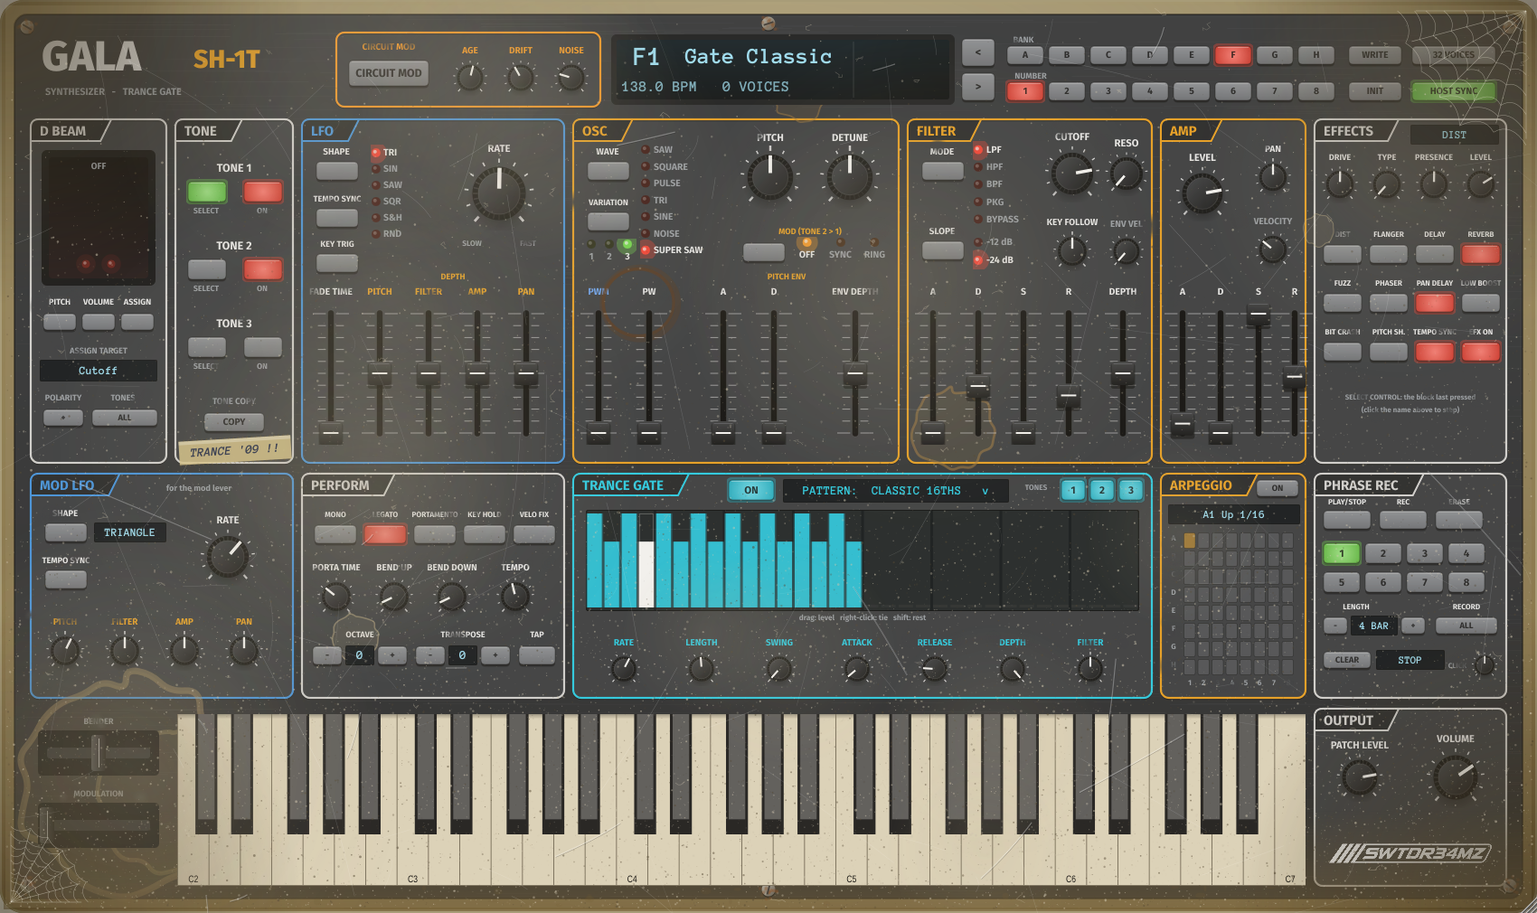
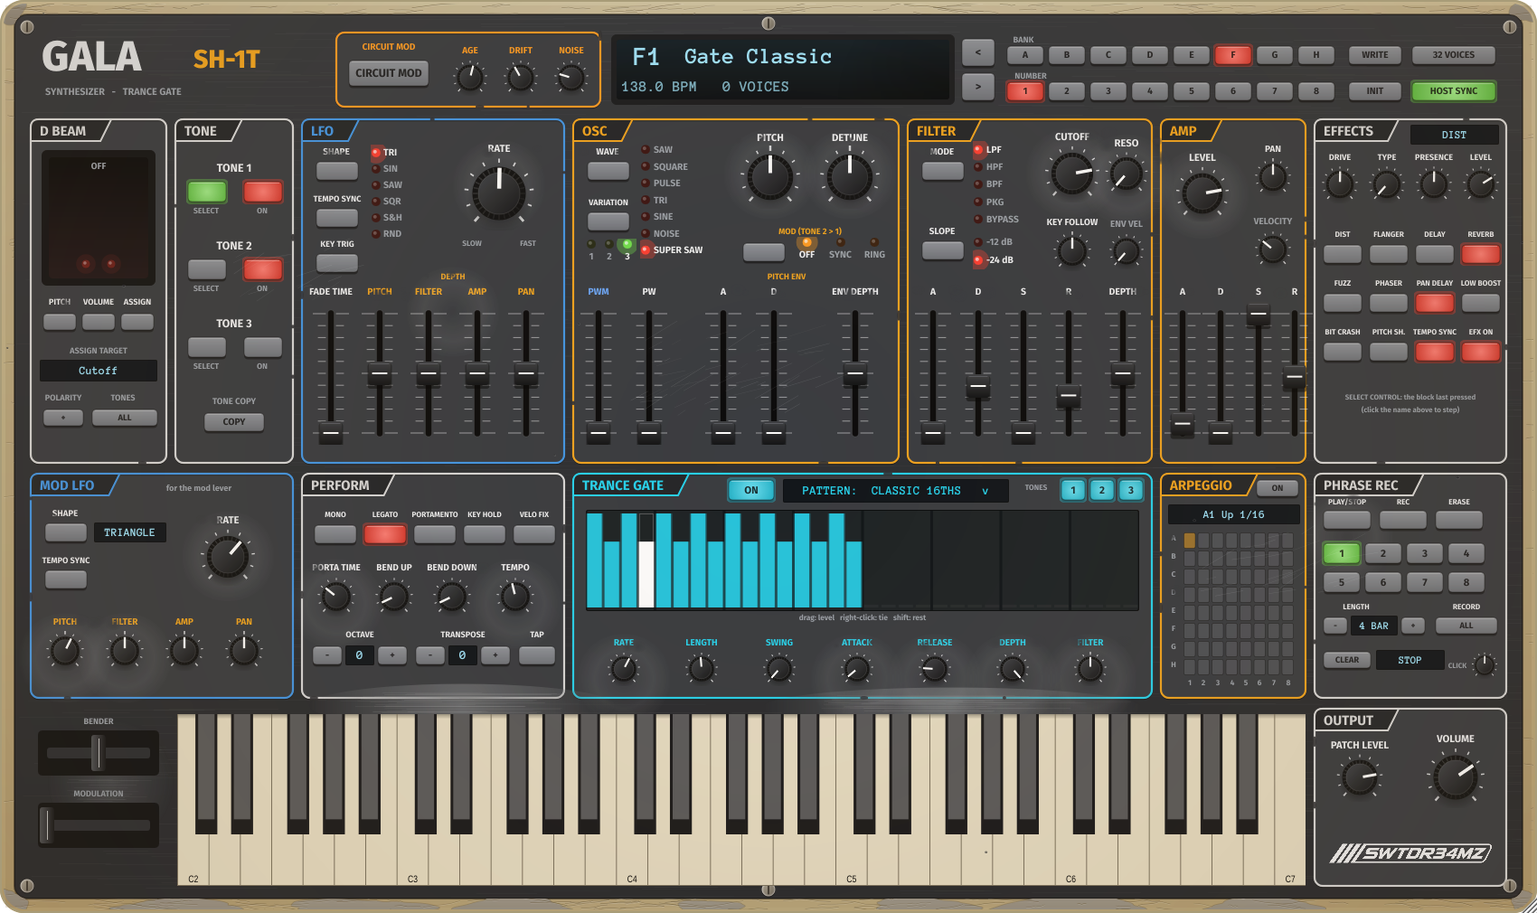
The panel as a relic job: checked lacquer, worn edges, chipped frames, polished by hands
No more cobwebs, tape, coffee ring or dust specks: the body's lacquer toned and checked, worn through to the primer
along the front edge and the corners, the panel's paint polished thin where palms rest, the frames' paint chipped,
a sheen round the knobs played most, the print rubbed there, the screws' nickel dulled, a few fine scratch clusters.

Claude-Session: https://claude.ai/code/session_019gwqiMsWfNz1vtXuzBpj2U

diff --git a/src/ui/Look.cpp b/src/ui/Look.cpp
@@ -67,9 +67,9 @@ void drawBody(juce::Graphics &g, juce::Rectangle<float> r)
     using namespace juce;
     /* the white body: a soft sheen, rounded */
     /* (once white: years of light and cellar air have made it ivory, darker at the edges) */
-    g.setGradientFill(ColourGradient(Colour(0xffd9cba0), r.getX(), r.getY(), Colour(0xffa89366), r.getX(), r.getBottom(), false));
+    g.setGradientFill(ColourGradient(Colour(0xffe8dcb8), r.getX(), r.getY(), Colour(0xffcdb98c), r.getX(), r.getBottom(), false));
     g.fillRoundedRectangle(r, 26.0f);
-    g.setGradientFill(ColourGradient(Colours::transparentBlack, r.getCentreX(), r.getCentreY(), Colour(0x80604a1c), r.getX(), r.getY(), true));
+    g.setGradientFill(ColourGradient(Colours::transparentBlack, r.getCentreX(), r.getCentreY(), Colour(0x50704e1c), r.getX(), r.getY(), true));
     g.fillRoundedRectangle(r, 26.0f);
     g.setColour(Colour(0xffa89c78));
     g.drawRoundedRectangle(r.reduced(1.0f), 26.0f, 2.0f);
@@ -78,7 +78,7 @@ void drawBody(juce::Graphics &g, juce::Rectangle<float> r)
     g.setGradientFill(ColourGradient(Colour(0xff303338), p.getX(), p.getY(), Colour(0xff222428), p.getX(), p.getBottom(), false));
     g.fillRoundedRectangle(p, 14.0f);
     Random rnd(7);
-    for (int i = 0; i < 900; i++) {
+    for (int i = 0; i < 1400; i++) {
         float y = p.getY() + rnd.nextFloat() * p.getHeight();
         float x = p.getX() + rnd.nextFloat() * p.getWidth();
         g.setColour(Colours::white.withAlpha(0.012f + 0.02f * rnd.nextFloat()));
@@ -244,28 +244,54 @@ void drawTag(juce::Graphics &g, juce::Rectangle<float> r)
     g.drawImage(tag, fit, juce::RectanglePlacement::stretchToFit, true);
 }
 
-/* ------------------------------------------------------------------------------- the cellar --- */
-static void stain(juce::Graphics &g, juce::Point<float> c, float rad, juce::Colour edge, juce::Random &rnd)
+/* ------------------------------------------------------------------------------- the relic --- */
+/* Aged as a custom shop relics a guitar: by hand, where the years would really have gone. The white lacquer toned to
+ * ivory and checked in fine cracks; worn through to the grey primer where the forearms and palms rest; the panel's
+ * paint polished thin to bare aluminium in front of the keys; the print rubbed where the fingers go; the screws dulled.
+ * No dirt for its own sake. */
+static void checking(juce::Graphics &g, juce::Rectangle<float> area, int n, juce::Random &rnd, juce::Colour c)
 {
     using namespace juce;
-    /* a dried drop: faint inside, a darker rim, not quite round */
+    /* lacquer checks: fine, mostly across, each a little wavy, in clusters */
+    for (int i = 0; i < n; i++) {
+        float x = area.getX() + rnd.nextFloat() * area.getWidth(), y = area.getY() + rnd.nextFloat() * area.getHeight();
+        float len = 10.0f + rnd.nextFloat() * 46.0f, tilt = (rnd.nextFloat() - 0.5f) * 0.35f;
+        Path p;
+        p.startNewSubPath(x, y);
+        int segs = 4;
+        for (int k = 1; k <= segs; k++)
+            p.lineTo(x + len * (float)k / (float)segs, y + tilt * len * (float)k / (float)segs + (rnd.nextFloat() - 0.5f) * 1.6f);
+        g.setColour(c.withMultipliedAlpha(0.5f + 0.5f * rnd.nextFloat()));
+        g.strokePath(p, PathStrokeType(0.55f));
+        g.setColour(Colours::white.withAlpha(0.25f));
+        g.strokePath(p, PathStrokeType(0.5f), AffineTransform::translation(0.0f, 0.7f));
+    }
+}
+
+static void wearPatch(juce::Graphics &g, juce::Point<float> c, float rx, float ry, juce::Colour bare, juce::Random &rnd)
+{
+    using namespace juce;
+    /* the finish worn through: an irregular soft-edged patch, a thin darker rim where the lacquer ends */
     Path p;
-    const int n = 28;
+    const int n = 36;
+    float ph = rnd.nextFloat() * 6.0f;
     for (int i = 0; i <= n; i++) {
         float a = MathConstants<float>::twoPi * (float)i / (float)n;
-        float rr = rad * (0.85f + 0.25f * rnd.nextFloat());
-        auto q = c.getPointOnCircumference(rr, a);
+        float w = 0.78f + 0.14f * std::sin(a * 3.0f + ph) + 0.1f * rnd.nextFloat();
+        Point<float> q(c.x + std::sin(a) * rx * w, c.y - std::cos(a) * ry * w);
         if (i == 0)
             p.startNewSubPath(q);
         else
             p.lineTo(q);
     }
     p.closeSubPath();
-    p = p.createPathWithRoundedCorners(rad * 0.3f);
-    g.setColour(edge.withMultipliedAlpha(0.25f));
+    p = p.createPathWithRoundedCorners(6.0f);
+    g.setColour(Colours::black.withAlpha(0.18f));
+    g.strokePath(p, PathStrokeType(1.6f));
+    g.setColour(bare);
     g.fillPath(p);
-    g.setColour(edge);
-    g.strokePath(p, PathStrokeType(jmax(1.0f, rad * 0.06f)));
+    g.setGradientFill(ColourGradient(Colours::white.withAlpha(0.10f), c.x, c.y - ry * 0.4f, Colours::transparentWhite, c.x, c.y + ry, false));
+    g.fillPath(p);
 }
 
 void drawScrew(juce::Graphics &g, juce::Point<float> c, float rr, int seed)
@@ -273,56 +299,96 @@ void drawScrew(juce::Graphics &g, juce::Point<float> c, float rr, int seed)
     using namespace juce;
     Random rnd(seed);
     auto r = Rectangle<float>(rr * 2.0f, rr * 2.0f).withCentre(c);
-    g.setColour(Colour(0x60000000));
-    g.fillEllipse(r.translated(0.0f, 1.5f));
-    g.setGradientFill(ColourGradient(Colour(0xffb9b4a8), r.getX(), r.getY(), Colour(0xff5d554a), r.getRight(), r.getBottom(), false));
+    g.setColour(Colour(0x50000000));
+    g.fillEllipse(r.translated(0.0f, 1.2f));
+    /* nickel gone dull: grey, a little warm, the head's edge still bright */
+    g.setGradientFill(ColourGradient(Colour(0xffc2bdb2), r.getX(), r.getY(), Colour(0xff6e685e), r.getRight(), r.getBottom(), false));
     g.fillEllipse(r);
-    /* rust bleeding out from it */
-    for (int i = 0; i < 14; i++) {
-        float a = rnd.nextFloat() * MathConstants<float>::twoPi, d = rr * (0.2f + 1.3f * rnd.nextFloat());
-        g.setColour(Colour(0xff8a4a1c).withAlpha(0.15f + 0.35f * rnd.nextFloat()));
-        g.fillEllipse(Rectangle<float>(rr * 0.5f, rr * 0.5f).withCentre(c.getPointOnCircumference(d, a)));
-    }
-    g.setColour(Colour(0xff3a3430));
+    g.setColour(Colour(0x30584a30));
+    g.fillEllipse(r.reduced(rr * 0.25f));
+    g.setColour(Colours::white.withAlpha(0.35f));
+    g.drawEllipse(r.reduced(0.6f), 0.8f);
     float a = rnd.nextFloat() * MathConstants<float>::pi;
-    g.drawLine(Line<float>(c.getPointOnCircumference(rr * 0.75f, a), c.getPointOnCircumference(rr * 0.75f, a + MathConstants<float>::pi)), rr * 0.25f);
+    g.setColour(Colour(0xff35302a));
+    g.drawLine(Line<float>(c.getPointOnCircumference(rr * 0.72f, a), c.getPointOnCircumference(rr * 0.72f, a + MathConstants<float>::pi)), rr * 0.24f);
 }
 
-void drawAgingUnder(juce::Graphics &g, juce::Rectangle<float> r, const std::vector<juce::Rectangle<float>> &worn)
+void drawAgingUnder(juce::Graphics &g, juce::Rectangle<float> r, const std::vector<juce::Rectangle<float>> &worn,
+                    const std::vector<juce::Rectangle<float>> &frames)
 {
     using namespace juce;
     Random rnd(1971);
-    /* the legends rubbed off where hands went for years: patches of the panel's own grey over the print */
-    for (auto &w : worn) {
-        for (int i = 0; i < 3; i++) {
-            auto c = Point<float>(w.getX() + rnd.nextFloat() * w.getWidth(), w.getY() + rnd.nextFloat() * w.getHeight());
-            float rad = 4.0f + rnd.nextFloat() * 9.0f;
-            g.setGradientFill(ColourGradient(col::section.withAlpha(0.92f), c.x, c.y, col::section.withAlpha(0.0f), c.x + rad, c.y, true));
-            g.fillEllipse(Rectangle<float>(rad * 2.0f, rad * 2.0f).withCentre(c));
+    const Colour primer(0xff8c8476);
+    /* the body: worn through along the front edge where the forearms rest, and at the corners that met cases and
+     * stands; checking over the lacquer */
+    {
+        Graphics::ScopedSaveState st(g);
+        Path body, panel;
+        body.addRoundedRectangle(r, 24.0f);
+        panel.addRoundedRectangle(r.reduced(12.0f), 14.0f);
+        body.setUsingNonZeroWinding(false);
+        body.addPath(panel);
+        g.reduceClipRegion(body);
+        for (int i = 0; i < 7; i++)
+            wearPatch(g, {r.getX() + r.getWidth() * (0.08f + 0.12f * (float)i + 0.04f * rnd.nextFloat()), r.getBottom() - 2.0f},
+                      34.0f + rnd.nextFloat() * 70.0f, 10.0f + rnd.nextFloat() * 6.0f, primer, rnd);
+        for (auto c : {r.getTopLeft(), r.getTopRight(), r.getBottomLeft(), r.getBottomRight()})
+            wearPatch(g, c.translated(c.x < r.getCentreX() ? 6.0f : -6.0f, c.y < r.getCentreY() ? 6.0f : -6.0f), 22.0f, 18.0f, primer, rnd);
+        checking(g, r.withHeight(16.0f), 110, rnd, Colour(0xb05a4a2a));
+        checking(g, r.withTop(r.getBottom() - 16.0f), 120, rnd, Colour(0xb05a4a2a));
+        checking(g, r.withWidth(16.0f), 30, rnd, Colour(0xb05a4a2a));
+        checking(g, r.withLeft(r.getRight() - 16.0f), 30, rnd, Colour(0xb05a4a2a));
+    }
+    /* the panel: its paint polished thin in front of the keys, where palms rest, and round the most-used controls */
+    auto bare = [&](Point<float> c, float rx, float ry, float a) {
+        g.setGradientFill(ColourGradient(Colour(0xff6f7276).withAlpha(a), c.x, c.y, Colour(0xff6f7276).withAlpha(0.0f), c.x + rx, c.y, true));
+        g.fillEllipse(Rectangle<float>(rx * 2.0f, ry * 2.0f).withCentre(c));
+        /* brushed: fine lines across */
+        for (int k = 0; k < 40; k++) {
+            float y = c.y - ry * 0.6f + rnd.nextFloat() * ry * 1.2f, x0 = c.x - rx * 0.7f + rnd.nextFloat() * rx * 0.4f;
+            g.setColour(Colours::white.withAlpha(0.03f + 0.04f * rnd.nextFloat() * a));
+            g.drawHorizontalLine((int)y, x0, x0 + rx * (0.4f + 0.8f * rnd.nextFloat()));
+        }
+    };
+    bare({r.getX() + r.getWidth() * 0.30f, r.getY() + r.getHeight() * 0.775f}, 170.0f, 24.0f, 0.8f);
+    bare({r.getX() + r.getWidth() * 0.62f, r.getY() + r.getHeight() * 0.777f}, 210.0f, 22.0f, 0.75f);
+    bare({r.getX() + r.getWidth() * 0.07f, r.getY() + r.getHeight() * 0.86f}, 70.0f, 70.0f, 0.35f);
+    /* the frames' paint chipped here and there, the dark showing through */
+    for (auto &f : frames) {
+        int n = 2 + rnd.nextInt(4);
+        for (int i = 0; i < n; i++) {
+            float t = rnd.nextFloat();
+            Point<float> c;
+            int side = rnd.nextInt(4);
+            c = side == 0 ? Point<float>(f.getX() + t * f.getWidth(), f.getY())
+              : side == 1 ? Point<float>(f.getX() + t * f.getWidth(), f.getBottom())
+              : side == 2 ? Point<float>(f.getX(), f.getY() + t * f.getHeight())
+                          : Point<float>(f.getRight(), f.getY() + t * f.getHeight());
+            if (side < 2 && c.x < f.getX() + 140.0f && side == 0)
+                continue;                                   /* (not through the title) */
+            float w = 3.0f + rnd.nextFloat() * 9.0f;
+            g.setColour(Colour(0xff2b2d31).withAlpha(0.9f));
+            g.fillEllipse(Rectangle<float>(side < 2 ? w : 4.0f, side < 2 ? 4.0f : w).withCentre(c));
         }
     }
-    /* water marks and a coffee ring on the panel, a tide line on the body */
-    stain(g, {r.getX() + r.getWidth() * 0.62f, r.getY() + r.getHeight() * 0.47f}, 46.0f, Colour(0x90a0783c), rnd);
-    stain(g, {r.getX() + r.getWidth() * 0.08f, r.getY() + r.getHeight() * 0.86f}, 120.0f, Colour(0x70b49a64), rnd);
-    stain(g, {r.getX() + r.getWidth() * 0.11f, r.getY() + r.getHeight() * 0.88f}, 80.0f, Colour(0x60b49a64), rnd);
-    stain(g, {r.getX() + r.getWidth() * 0.52f, r.getY() + r.getHeight() * 0.10f}, 30.0f, Colour(0x80a0783c), rnd);
-    stain(g, {r.getX() + r.getWidth() * 0.23f, r.getY() + r.getHeight() * 0.70f}, 26.0f, Colour(0x80c8b48a), rnd);
-    stain(g, {r.getX() + r.getWidth() * 0.86f, r.getY() + r.getHeight() * 0.25f}, 18.0f, Colour(0x70c8b48a), rnd);
-    {
-        /* the coffee ring: a mug stood here once */
-        auto c = Point<float>(r.getX() + r.getWidth() * 0.415f, r.getY() + r.getHeight() * 0.33f);
-        g.setColour(Colour(0x9a5a3214));
-        g.drawEllipse(Rectangle<float>(78.0f, 74.0f).withCentre(c), 3.5f);
-        g.setColour(Colour(0x505a3214));
-        g.drawEllipse(Rectangle<float>(84.0f, 80.0f).withCentre(c.translated(2.0f, 1.0f)), 6.0f);
+    /* polished by hands round the knobs played most: a faint sheen on the paint */
+    for (auto &w : worn) {
+        if (w.getWidth() < 70.0f)
+            continue;                                       /* (knobs only: a fader's legend is narrow) */
+        auto c = Point<float>(w.getCentreX(), w.getBottom() + 32.0f);
+        ColourGradient cg(Colours::white.withAlpha(0.0f), c.x, c.y, Colours::white.withAlpha(0.0f), c.x + 54.0f, c.y, true);
+        cg.addColour(0.6, Colours::white.withAlpha(0.07f));
+        g.setGradientFill(cg);
+        g.fillEllipse(Rectangle<float>(108.0f, 100.0f).withCentre(c));
     }
-    /* the bottom of the body: where the cellar floor's damp crept up */
-    g.setGradientFill(ColourGradient(Colour(0x00705a30), r.getX(), r.getBottom() - 110.0f, Colour(0x90705a30), r.getX(), r.getBottom(), false));
-    g.fillRect(r.withTop(r.getBottom() - 110.0f));
-    for (int i = 0; i < 40; i++) {
-        float x = r.getX() + rnd.nextFloat() * r.getWidth();
-        g.setColour(Colour(0xff6a5228).withAlpha(0.08f + 0.12f * rnd.nextFloat()));
-        g.fillEllipse(x, r.getBottom() - 6.0f - rnd.nextFloat() * 40.0f, 3.0f + rnd.nextFloat() * 9.0f, 2.0f + rnd.nextFloat() * 6.0f);
+    /* the print rubbed where fingers went */
+    for (auto &w : worn) {
+        for (int i = 0; i < 2; i++) {
+            auto c = Point<float>(w.getX() + rnd.nextFloat() * w.getWidth(), w.getY() + w.getHeight() * (0.3f + 0.5f * rnd.nextFloat()));
+            float rad = 3.0f + rnd.nextFloat() * 7.0f;
+            g.setGradientFill(ColourGradient(col::section.withAlpha(0.85f), c.x, c.y, col::section.withAlpha(0.0f), c.x + rad, c.y, true));
+            g.fillEllipse(Rectangle<float>(rad * 2.0f, rad * 1.4f).withCentre(c));
+        }
     }
 }
 
@@ -330,96 +396,32 @@ void drawAgingOver(juce::Graphics &g, juce::Rectangle<float> r)
 {
     using namespace juce;
     Random rnd(1983);
-    /* grime in the corners and along the edges */
-    for (auto c : {r.getTopLeft(), r.getTopRight(), r.getBottomLeft(), r.getBottomRight()}) {
-        g.setGradientFill(ColourGradient(Colour(0xa0362a14), c.x, c.y, Colour(0x00362a14), c.x + (c.x < r.getCentreX() ? 330.0f : -330.0f), c.y, true));
-        g.fillEllipse(Rectangle<float>(660.0f, 660.0f).withCentre(c));
-    }
-    /* dust: thousands of specks, a few fluffs, thicker in the lower half (it settled) */
-    for (int i = 0; i < 22000; i++) {
-        float x = r.getX() + rnd.nextFloat() * r.getWidth();
-        float y = r.getY() + std::sqrt(rnd.nextFloat()) * r.getHeight();
-        float s = 0.6f + rnd.nextFloat() * rnd.nextFloat() * 2.4f;
-        bool light = rnd.nextFloat() < 0.65f;
-        g.setColour((light ? Colour(0xffd8cfb8) : Colour(0xff4a3e2a)).withAlpha(0.16f + 0.4f * rnd.nextFloat()));
-        g.fillEllipse(x, y, s, s);
-    }
-    for (int i = 0; i < 80; i++) {
-        Path p;
-        float x = r.getX() + rnd.nextFloat() * r.getWidth(), y = r.getY() + rnd.nextFloat() * r.getHeight();
-        p.startNewSubPath(x, y);
-        for (int k = 0; k < 5; k++)
-            p.lineTo(x += rnd.nextFloat() * 10.0f - 5.0f, y += rnd.nextFloat() * 8.0f - 4.0f);
-        g.setColour(Colour(0xffcfc6b0).withAlpha(0.25f + 0.2f * rnd.nextFloat()));
-        g.strokePath(p, PathStrokeType(0.7f));
-    }
-    /* a film of grey over all of it */
-    g.setColour(Colour(0x26a89c80));
+    /* a faint warmth over everything (the years' light), deeper toward the edges */
+    g.setGradientFill(ColourGradient(Colour(0x00a08050), r.getCentreX(), r.getCentreY(), Colour(0x22704f24), r.getX(), r.getY(), true));
     g.fillRect(r);
-    /* a dusty haze, thicker in patches */
-    for (int i = 0; i < 18; i++) {
-        auto c = Point<float>(r.getX() + rnd.nextFloat() * r.getWidth(), r.getY() + rnd.nextFloat() * r.getHeight());
-        float rad = 80.0f + rnd.nextFloat() * 220.0f;
-        g.setGradientFill(ColourGradient(Colour(0x22b8ab8c), c.x, c.y, Colour(0x00b8ab8c), c.x + rad, c.y, true));
-        g.fillEllipse(Rectangle<float>(rad * 2.0f, rad * 2.0f).withCentre(c));
-    }
-    /* scratches: long fine ones, a few deep */
-    for (int i = 0; i < 140; i++) {
-        float x = r.getX() + rnd.nextFloat() * r.getWidth(), y = r.getY() + rnd.nextFloat() * r.getHeight();
-        float a = rnd.nextFloat() * MathConstants<float>::pi, len = 15.0f + rnd.nextFloat() * rnd.nextFloat() * 220.0f;
-        Path p;
-        p.startNewSubPath(x, y);
-        p.quadraticTo(x + std::cos(a) * len * 0.5f + rnd.nextFloat() * 8.0f, y + std::sin(a) * len * 0.5f,
-                      x + std::cos(a) * len, y + std::sin(a) * len);
-        bool deep = rnd.nextFloat() < 0.12f;
-        g.setColour(Colours::white.withAlpha(deep ? 0.3f : 0.09f + 0.1f * rnd.nextFloat()));
-        g.strokePath(p, PathStrokeType(deep ? 1.4f : 0.6f));
-        if (deep) {
-            g.setColour(Colours::black.withAlpha(0.25f));
-            g.strokePath(p, PathStrokeType(0.6f), AffineTransform::translation(0.6f, 0.8f));
-        }
-    }
-    /* a cobweb in the top right corner, and one low on the left */
-    auto web = [&](Point<float> c, float size, float a0, float a1) {
-        g.setColour(Colour(0xffe8e2d4).withAlpha(0.45f));
-        const int spokes = 7;
-        for (int k = 0; k < spokes; k++) {
-            float a = a0 + (a1 - a0) * (float)k / (float)(spokes - 1);
-            g.drawLine(Line<float>(c, c.getPointOnCircumference(size * (0.8f + 0.2f * rnd.nextFloat()), a)), 0.7f);
-        }
-        for (float rr = size * 0.15f; rr < size; rr += size * (0.09f + 0.05f * rnd.nextFloat())) {
-            Path p;
-            for (int k = 0; k < spokes; k++) {
-                float a = a0 + (a1 - a0) * (float)k / (float)(spokes - 1);
-                auto q = c.getPointOnCircumference(rr * (0.92f + 0.12f * rnd.nextFloat()), a);
-                if (k == 0)
-                    p.startNewSubPath(q);
-                else
-                    p.quadraticTo(c.getPointOnCircumference(rr * 0.86f, a - (a1 - a0) / (float)(spokes - 1) * 0.5f), q);
-            }
-            g.strokePath(p, PathStrokeType(0.6f));
+    /* fine scratches in the finish: clusters, as from a belt buckle or a cable dragged over it, never everywhere */
+    auto cluster = [&](Point<float> c, float w, float h, int n) {
+        for (int i = 0; i < n; i++) {
+            float x = c.x + (rnd.nextFloat() - 0.5f) * w, y = c.y + (rnd.nextFloat() - 0.5f) * h;
+            float a = 1.2f + (rnd.nextFloat() - 0.5f) * 0.5f, len = 6.0f + rnd.nextFloat() * 40.0f;
+            g.setColour(Colours::white.withAlpha(0.05f + 0.09f * rnd.nextFloat()));
+            g.drawLine(x, y, x + std::sin(a) * len, y - std::cos(a) * len, 0.5f);
         }
     };
-    /* an old strip of masking tape, someone's note on it */
-    {
-        Graphics::ScopedSaveState st(g);
-        auto c = Point<float>(r.getX() + 254.0f, r.getY() + 492.0f);
-        g.addTransform(AffineTransform::rotation(-0.06f, c.x, c.y));
-        auto tape = Rectangle<float>(124.0f, 26.0f).withCentre(c);
-        g.setColour(Colour(0xd8d7c38c));
-        g.fillRect(tape);
-        g.setColour(Colour(0x40ffffff));
-        g.fillRect(tape.withHeight(4.0f));
-        g.setColour(Colour(0x60806a3a));
-        for (float x = tape.getX(); x < tape.getRight(); x += 5.0f) {
-            g.drawLine(x, tape.getY(), x + 2.0f, tape.getY() - 1.5f, 1.0f);
-            g.drawLine(x, tape.getBottom(), x + 2.0f, tape.getBottom() + 1.5f, 1.0f);
-        }
-        g.setColour(Colour(0xd0202a4a));
-        g.setFont(font(Face::mono, 14.0f).italicised());
-        g.drawText("TRANCE '09 !!", tape, Justification::centred, false);
+    cluster({r.getX() + r.getWidth() * 0.47f, r.getY() + r.getHeight() * 0.41f}, 220.0f, 90.0f, 45);
+    cluster({r.getX() + r.getWidth() * 0.83f, r.getY() + r.getHeight() * 0.62f}, 160.0f, 70.0f, 30);
+    cluster({r.getX() + r.getWidth() * 0.18f, r.getY() + r.getHeight() * 0.30f}, 120.0f, 60.0f, 20);
+    /* a few honest dings: tiny chips with a bright edge */
+    for (int i = 0; i < 10; i++) {
+        auto c = Point<float>(r.getX() + rnd.nextFloat() * r.getWidth(), r.getY() + rnd.nextFloat() * r.getHeight());
+        float s = 1.5f + rnd.nextFloat() * 2.5f;
+        g.setColour(Colour(0x90141416));
+        g.fillEllipse(Rectangle<float>(s, s * 0.8f).withCentre(c));
+        g.setColour(Colours::white.withAlpha(0.18f));
+        g.drawEllipse(Rectangle<float>(s, s * 0.8f).withCentre(c.translated(0.4f, 0.4f)), 0.5f);
     }
-    web({r.getRight() - 6.0f, r.getY() + 6.0f}, 150.0f, MathConstants<float>::pi, MathConstants<float>::pi * 1.5f);
-    web({r.getX() + 6.0f, r.getBottom() - 6.0f}, 90.0f, 0.0f, MathConstants<float>::pi * 0.5f);
+    /* fine dust only where it would settle and stay: a light haze, no specks */
+    g.setColour(Colour(0x0cb8ab8c));
+    g.fillRect(r);
 }
 } // namespace glui

diff --git a/src/PluginEditor.cpp b/src/PluginEditor.cpp
@@ -391,9 +391,7 @@ public:
         auto s = r.reduced(6.0f);
         g.setGradientFill(juce::ColourGradient(juce::Colour(0xff0d1a22), s.getX(), s.getY(), juce::Colour(0xff060b0f), s.getX(), s.getBottom(), false));
         g.fillRoundedRectangle(s, 3.0f);
-        /* (years old: a dead column, a dim corner) */
-        g.setColour(juce::Colour(0x18ffffff));
-        g.fillRect(s.getX() + s.getWidth() * 0.71f, s.getY() + 2.0f, 1.5f, s.getHeight() - 4.0f);
+        /* (years old: a corner gone a little dim) */
         g.setGradientFill(juce::ColourGradient(juce::Colour(0x70000000), s.getRight(), s.getBottom(), juce::Colour(0x00000000), s.getRight() - 120.0f, s.getBottom() - 30.0f, true));
         g.fillRoundedRectangle(s, 3.0f);
         g.setColour(col::lcd);
@@ -1401,18 +1399,19 @@ void Panel::paint(juce::Graphics &g)
             bg.setColour(col::dim);
             bg.setFont(font(Face::title, 13.0f));
             bg.drawText("SYNTHESIZER   -   TRANCE GATE", juce::Rectangle<float>(50, 92, 300, 18), juce::Justification::centredLeft, false);
-            std::vector<juce::Rectangle<float>> worn;
-            for (auto &l : legends) {
+            for (auto &l : legends)
                 drawLegend(bg, l.text, l.r, l.size, l.c);
-                worn.push_back(l.r);
-            }
             /* (the most-used: the gate's, the cutoff's, the arp's; the rest rubbed off a little at random) */
             std::vector<juce::Rectangle<float>> rubbed;
-            juce::Random rnd(42);
-            for (auto &w : worn)
-                if (rnd.nextFloat() < 0.5f)
-                    rubbed.push_back(w);
-            drawAgingUnder(bg, all.reduced(4.0f), rubbed);
+            for (auto &l : legends)
+                for (auto *used : {"CUTOFF", "RESO", "RATE", "LEVEL", "PITCH", "DETUNE", "A", "D", "R", "ENV DEPTH", "DEPTH",
+                                   "SHAPE", "WAVE", "MODE", "TEMPO", "PORTA TIME", "ATTACK", "RELEASE", "FILTER", "PLAY/STOP", "REC"})
+                    if (l.text == used)
+                        rubbed.push_back(l.r);
+            std::vector<juce::Rectangle<float>> frames;
+            for (auto &s : sections)
+                frames.push_back(s.first);
+            drawAgingUnder(bg, all.reduced(4.0f), rubbed, frames);
             int seed = 3;
             for (auto p : {juce::Point<float>(30, 30), juce::Point<float>(W - 30.0f, 30), juce::Point<float>(30, H - 30.0f),
                            juce::Point<float>(W - 30.0f, H - 30.0f), juce::Point<float>(W * 0.5f, 26), juce::Point<float>(W * 0.5f, H - 26.0f)})

diff --git a/src/ui/Look.h b/src/ui/Look.h
@@ -47,10 +47,11 @@ void drawFader(juce::Graphics &, juce::Rectangle<float> r, float pos, bool bipol
 void drawButton(juce::Graphics &, juce::Rectangle<float> r, juce::Colour lit, bool down, bool over);
 void drawLed(juce::Graphics &, juce::Point<float> c, float size, juce::Colour colour, float level);
 void drawTag(juce::Graphics &, juce::Rectangle<float> r);
-/* years in a cellar, on the body and the panel (under the controls): the plastic gone yellow, water and coffee
- * marks, rust round the screws, legends rubbed off where hands went */
-void drawAgingUnder(juce::Graphics &, juce::Rectangle<float> r, const std::vector<juce::Rectangle<float>> &worn);
-/* ... and over everything (dust, grime in the corners, scratches, a cobweb): drawn once into an image */
+/* a relic job, on the body and the panel (under the controls): checked lacquer, worn through at the edges, the paint
+ * polished thin where hands rest, the frames' paint chipped, the print rubbed where fingers went (worn: those legends) */
+void drawAgingUnder(juce::Graphics &, juce::Rectangle<float> r, const std::vector<juce::Rectangle<float>> &worn,
+                    const std::vector<juce::Rectangle<float>> &frames);
+/* ... and over everything (a warm tone, fine scratch clusters, a few dings): drawn once into an image */
 void drawAgingOver(juce::Graphics &, juce::Rectangle<float> r);
 void drawScrew(juce::Graphics &, juce::Point<float> c, float r, int seed);
 } // namespace glui
